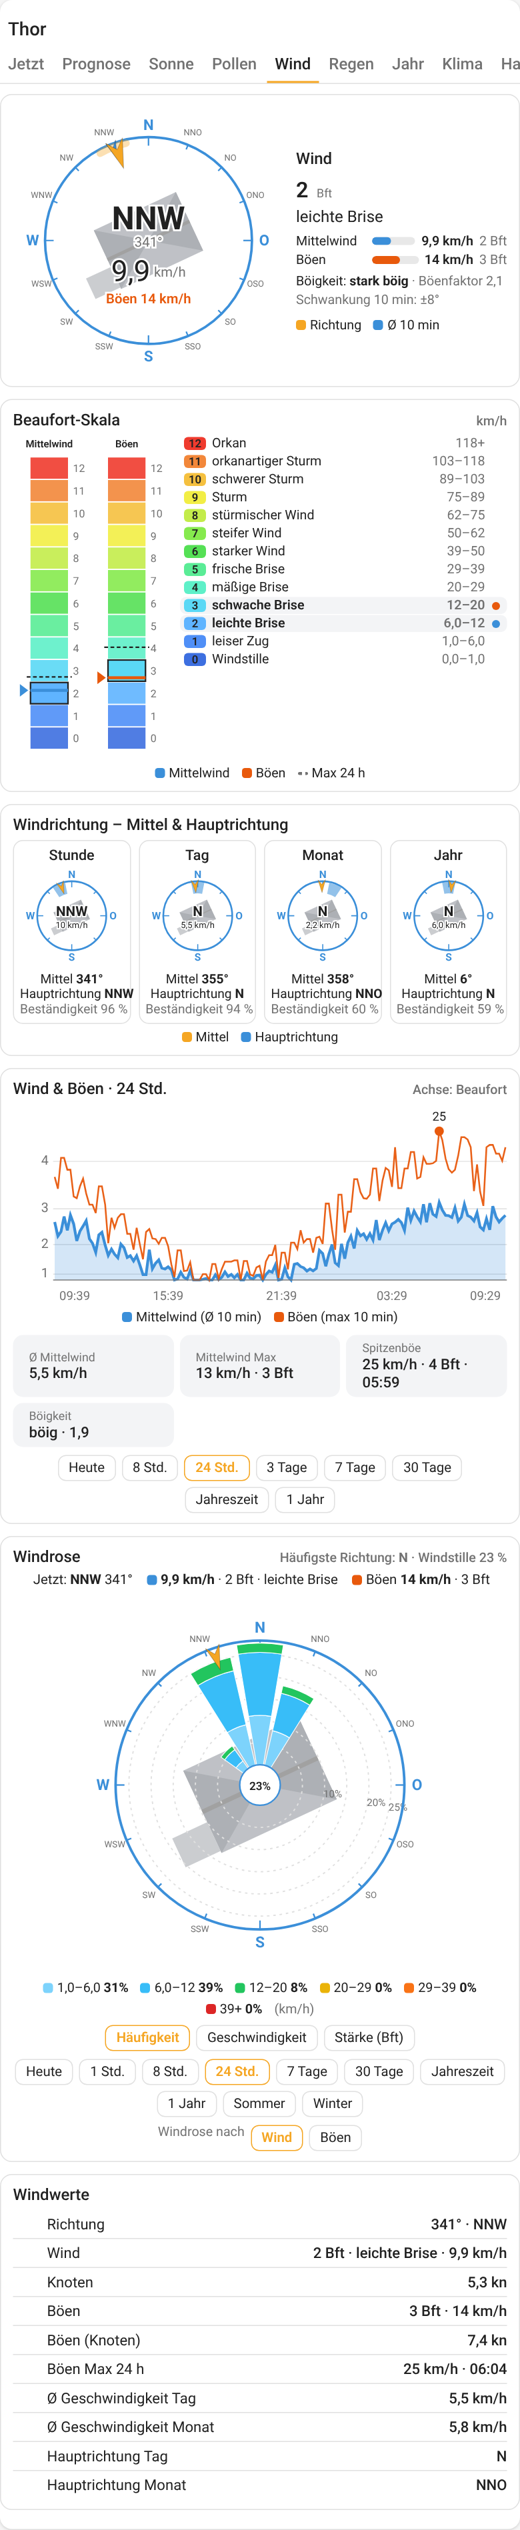
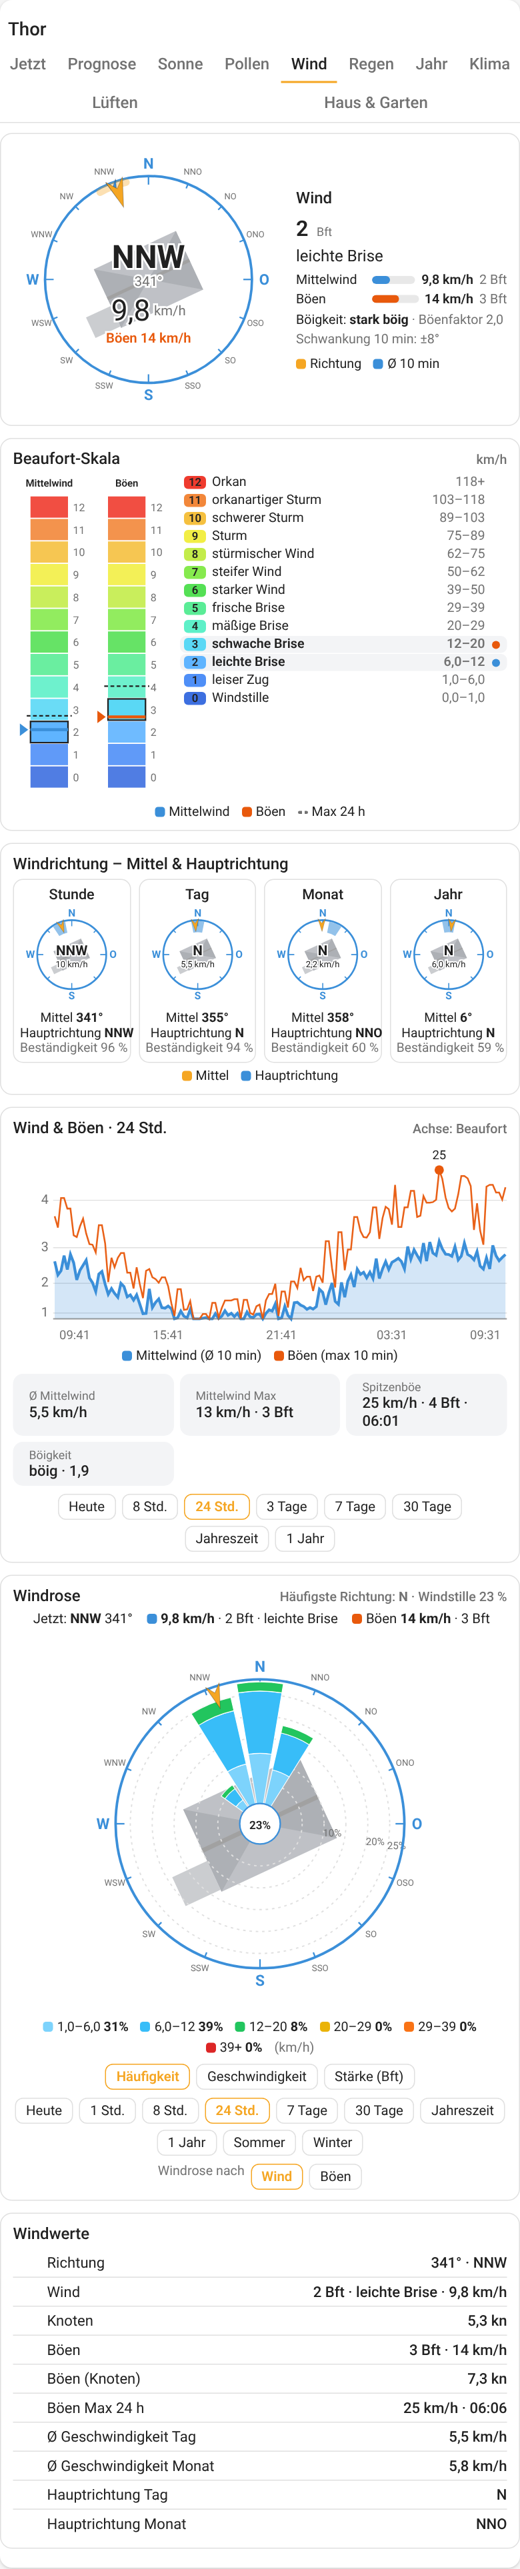
v1.7.0: Version nach Zusammenführung mit „Lüften“-Reiter (v1.6.0)
Claude-Session: https://claude.ai/code/session_01QFZMPV6JW9oBrQGUzZEXot

diff --git a/thor-weather-card.js b/thor-weather-card.js
@@ -4,7 +4,7 @@
  * Wind-Kompass mit Mittelwerten, Windrose, UV-Pyramide, Regen und Klimatage des Jahres.
  * https://github.com/muhkuh666/thor-weather-card
  */
-const CARD_VERSION = "1.6.0";
+const CARD_VERSION = "1.7.0";
 
 const HOUR = 3600 * 1000;
 const DAY = 24 * HOUR;
